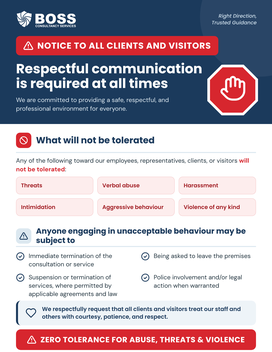
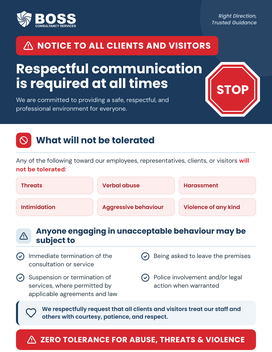
General flyers: bundle start designs on Vercel; classic STOP sign
Claude-Session: https://claude.ai/code/session_01P2g3NL2n6FqvaNYp5x9Ud1

Changed region(s): [[0.7353, 0.1562, 0.9706, 0.3438]]

diff --git a/public/general/notice.html b/public/general/notice.html
@@ -1,4 +1,4 @@
-<section class="sheet" data-tpl="notice-v5" style="width:816px;height:1056px">
+<section class="sheet" data-tpl="notice-v6" style="width:816px;height:1056px">
 <div style="position:relative;width:816px;height:1056px;overflow:hidden;background:#ffffff;font-family:'DM Sans',sans-serif;">
 <div data-kind="shape" style="position: absolute; left: 0px; top: 0px; width: 816px; height: 372px; margin: 0; box-sizing: border-box; background-color: rgb(27, 58, 92); background-size: auto; background-position: 0% 0%; background-repeat: repeat; border-radius: 0px"></div>
 <div data-kind="shape" style="position: absolute; left: 600px; top: -130px; width: 360px; height: 360px; margin: 0; box-sizing: border-box; background-color: rgba(220, 232, 240, 0.07); background-size: auto; background-position: 0% 0%; background-repeat: repeat; border-radius: 50%"></div>
@@ -9,7 +9,7 @@
 <div data-kind="text" style="position: absolute; left: 112px; top: 117.5px; width: 521.15px; height: 39px; margin: 0; box-sizing: border-box; hyphens: manual; text-indent: 0px; font-kerning: auto; font-family: Poppins; font-size: 26px; font-weight: 700; letter-spacing: 1.04px; word-spacing: 0px; color: rgb(255, 255, 255); text-align: start; background-size: auto; background-position: 0% 0%; background-repeat: repeat; border-radius: 0px; padding: 0px">NOTICE TO ALL CLIENTS AND VISITORS</div>
 <div data-kind="text" style="position: absolute; left: 48px; top: 184px; width: 570.02px; height: 88px; margin: 0; box-sizing: border-box; hyphens: manual; text-indent: 0px; font-kerning: auto; font-family: Poppins; font-size: 40px; font-weight: 700; line-height: 44px; word-spacing: 0px; color: rgb(255, 255, 255); text-align: start; background-size: auto; background-position: 0% 0%; background-repeat: repeat; border-radius: 0px; padding: 0px">Respectful communication<br>is required at all times</div>
 <div data-kind="text" style="position: absolute; left: 48px; top: 288px; width: 550.02px; height: 51.78px; margin: 0; box-sizing: border-box; hyphens: manual; text-indent: 0px; font-kerning: auto; font-family: 'DM Sans', sans-serif; font-size: 18.5px; font-weight: 400; line-height: 25.9px; word-spacing: 0px; color: rgb(220, 232, 240); text-align: start; background-size: auto; background-position: 0% 0%; background-repeat: repeat; border-radius: 0px; padding: 0px">We are committed to providing a safe, respectful, and professional environment for everyone.</div>
-<svg style="position: absolute; left: 618px; top: 190px; width: 160px; height: 160px; margin: 0; box-sizing: border-box; color: rgb(0, 0, 0)" width="160" height="160" viewBox="0 0 160 160"><polygon points="47,4 113,4 156,47 156,113 113,156 47,156 4,113 4,47" fill="#ffffff"></polygon><polygon points="50,12 110,12 148,50 148,110 110,148 50,148 12,110 12,50" fill="#D7262E"></polygon><g transform="translate(40 34) scale(3.4)" fill="none" stroke="#ffffff" stroke-width="1.8" stroke-linecap="round" stroke-linejoin="round"><path d="M18 11V6a2 2 0 0 0-4 0"></path><path d="M14 10V4a2 2 0 0 0-4 0v2"></path><path d="M10 10.5V6a2 2 0 0 0-4 0v8"></path><path d="M18 8a2 2 0 1 1 4 0v6a8 8 0 0 1-8 8h-2c-2.8 0-4.5-.86-5.99-2.34l-3.6-3.6a2 2 0 0 1 2.83-2.82L7 15"></path></g></svg>
+<svg style="position: absolute; left: 614px; top: 184px; width: 168px; height: 168px; margin: 0; box-sizing: border-box; color: rgb(0, 0, 0)" width="168" height="168" viewBox="0 0 168 168"><polygon points="49.2,2 118.8,2 166,49.2 166,118.8 118.8,166 49.2,166 2,118.8 2,49.2" fill="#ffffff"></polygon><polygon points="52.5,10 115.5,10 158,52.5 158,115.5 115.5,158 52.5,158 10,115.5 10,52.5" fill="#D7262E"></polygon><polygon points="55.8,18 112.2,18 150,55.8 150,112.2 112.2,150 55.8,150 18,112.2 18,55.8" fill="none" stroke="#ffffff" stroke-width="3"></polygon><text x="84" y="98" text-anchor="middle" font-family="Poppins, sans-serif" font-weight="700" font-size="37" fill="#ffffff">STOP</text></svg>
 <div data-kind="shape" style="position: absolute; left: 48px; top: 398px; width: 46px; height: 46px; margin: 0; box-sizing: border-box; background-color: rgb(215, 38, 46); background-size: auto; background-position: 0% 0%; background-repeat: repeat; border-radius: 12px"></div>
 <svg width="26" height="26" viewBox="0 0 24 24" fill="none" stroke="#ffffff" stroke-width="2.2" stroke-linecap="round" stroke-linejoin="round" style="position: absolute; left: 58px; top: 408px; width: 26px; height: 26px; margin: 0; box-sizing: border-box; color: rgb(0, 0, 0)"><circle cx="12" cy="12" r="10"></circle><path d="m4.9 4.9 14.2 14.2"></path></svg>
 <div data-kind="text" style="position: absolute; left: 108px; top: 401px; width: 355.99px; height: 40px; margin: 0; box-sizing: border-box; hyphens: manual; text-indent: 0px; font-kerning: auto; font-family: Poppins; font-size: 27px; font-weight: 700; word-spacing: 0px; color: rgb(27, 58, 92); text-align: start; background-size: auto; background-position: 0% 0%; background-repeat: repeat; border-radius: 0px; padding: 0px">What will not be tolerated</div>

diff --git a/app/api/general/route.ts b/app/api/general/route.ts
@@ -8,14 +8,24 @@ export const dynamic = "force-dynamic";
 
 const TEMPLATES: Record<string, string> = { notice: "notice.html", blank: "blank.html" };
 
+async function readTemplate(req: Request, file: string): Promise<string> {
+  try {
+    return await fs.readFile(path.join(/* turbopackIgnore: true */ process.cwd(), "public", "general", file), "utf8");
+  } catch {
+    const r = await fetch(new URL(`/general/${file}`, req.url), { headers: { authorization: req.headers.get("authorization") || "" }, cache: "no-store" });
+    if (!r.ok) throw new Error(`Could not load the ${file} design (${r.status}).`);
+    return r.text();
+  }
+}
+
 /** All general flyers (name, time, who), newest first. */
-export async function GET() {
+export async function GET(req: Request) {
   if (!cloudEnabled()) return NextResponse.json({ error: "The team library is not set up yet." }, { status: 501 });
   let docs = await listGeneral();
   // the first notice copied the sample's look; switch it to the BOSS design (wording unchanged)
-  const old = docs.filter((d) => /notice to all clients/i.test(d.name) && (/data-tpl="notice-v[234]"/.test(d.html) || (!d.html.includes("data-tpl") && d.html.includes("rgb(215, 38, 46)"))));
+  const old = docs.filter((d) => /notice to all clients/i.test(d.name) && (/data-tpl="notice-v[2-5]"/.test(d.html) || (!d.html.includes("data-tpl") && d.html.includes("rgb(215, 38, 46)"))));
   if (old.length) {
-    const html = await fs.readFile(path.join(/* turbopackIgnore: true */ process.cwd(), "public", "general", "notice.html"), "utf8");
+    const html = await readTemplate(req, "notice.html");
     for (const d of old) {
       d.html = html;
       d.updatedAt = Date.now();
@@ -24,7 +34,7 @@ export async function GET() {
   }
   if (!docs.length) {
     // first visit: start the library with the notice to clients and visitors
-    const html = await fs.readFile(path.join(/* turbopackIgnore: true */ process.cwd(), "public", "general", "notice.html"), "utf8");
+    const html = await readTemplate(req, "notice.html");
     const doc = { id: `g${Date.now().toString(36)}notice`, name: "Notice to all clients and visitors", html, updatedAt: Date.now(), updatedBy: "" };
     await saveGeneral(doc);
     docs = [doc];
@@ -37,7 +47,7 @@ export async function POST(req: Request) {
   if (!cloudEnabled()) return NextResponse.json({ error: "The team library is not set up yet." }, { status: 501 });
   const body = (await req.json().catch(() => ({}))) as { template?: string; name?: string; by?: string };
   const file = TEMPLATES[body.template || "blank"] || TEMPLATES.blank;
-  const html = await fs.readFile(path.join(/* turbopackIgnore: true */ process.cwd(), "public", "general", file), "utf8");
+  const html = await readTemplate(req, file);
   const id = `g${Date.now().toString(36)}${Math.random().toString(36).slice(2, 6)}`;
   const name = (body.name || "").trim().slice(0, 80) || "New flyer";
   await saveGeneral({ id, name, html, updatedAt: Date.now(), updatedBy: body.by || "" });
